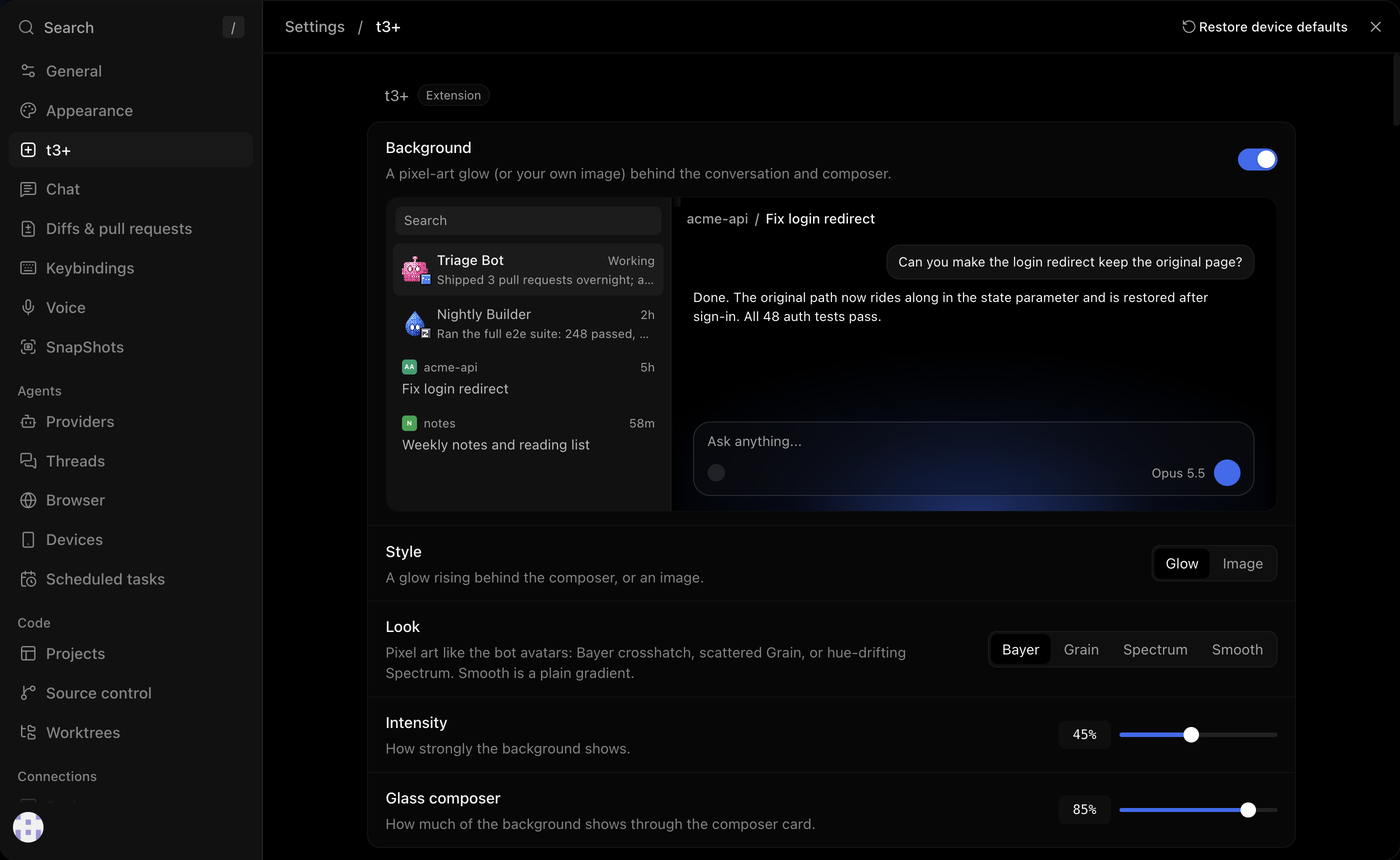
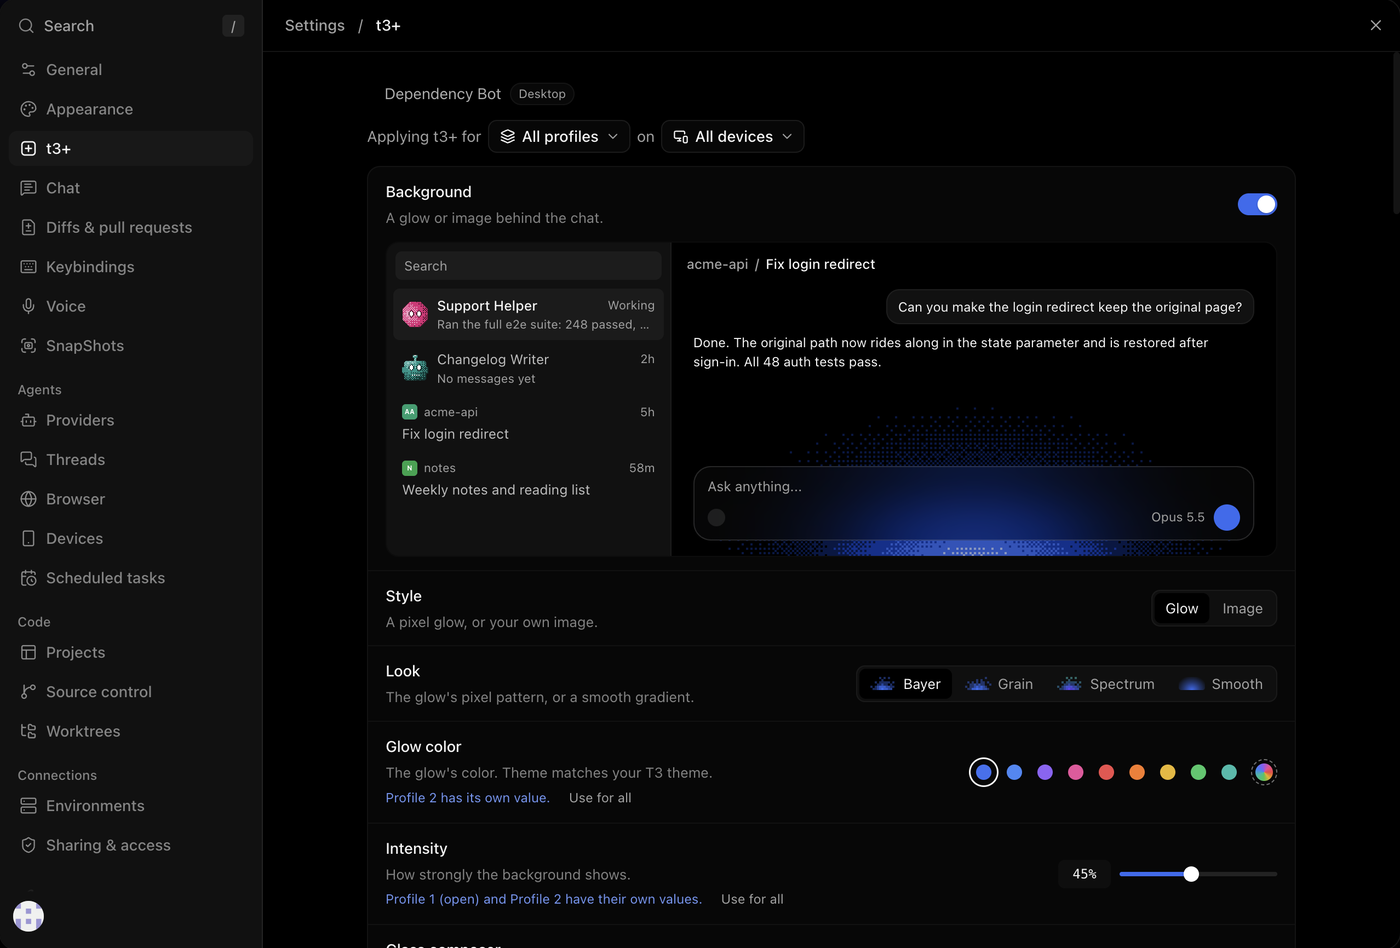
t3+ 0.23.1: README with Status view, profile swipe and Settings clips

diff --git a/README.md b/README.md
@@ -6,7 +6,7 @@
 
 <img src="media/hero.gif" alt="t3+ new-thread page: glow behind a glass composer, usage widgets, bots in the sidebar" width="100%">
 
-[Install](#install) · [Bots](#bots) · [Glow](#glow-and-glass) · [Usage](#usage-at-a-glance) · [Profiles](#profiles) · [Walkthrough](#walkthrough)
+[Install](#install) · [Bots](#bots) · [Profiles](#profiles) · [Status view](#status-view) · [Glow](#glow-and-glass) · [Usage](#usage-at-a-glance) · [Settings](#settings) · [Walkthrough](#walkthrough)
 
 </div>
 
@@ -35,15 +35,14 @@ You need macOS, the T3 Code desktop app and Node 22.2+.
 
 <table>
 <tr>
-<td width="300"><img src="media/bots.gif" alt="Bots in the sidebar: faces, latest messages and a subagent strip" width="300"></td>
+<td width="260"><img src="media/bots.gif" alt="Bots in the sidebar: animated faces, latest messages and a subagent strip" width="260"></td>
 <td>
 
 Every thread becomes a little pixel-art bot with a face, its name and its latest message.
 
 - **Moods**: eyes closed when idle, animated while the thread works.
-- **Status badges** (Settings → t3+, off to start): a small tile on each bot's face that shows what the thread is doing.
-- **Subagents**: small faces line up under a bot while it runs subagents, in the bot's own shape and color (or ones you pick in Settings → t3+ → Subagents); finished ones dim.
-- **Status colors** (Settings → t3+): in the sidebar's Status view every bot wears its status's color, orange when it needs you, red failed, amber working, green done and blue idle. Everywhere else bots keep their own colors, and balls, planets and fruit always do.
+- **Subagents**: small faces line up under a bot while it runs subagents, in the bot's own shape and color by default (pick others in Settings → t3+ → Subagents). Finished ones dim.
+- **Status badges** (off to start): a small tile on each face that shows what the thread is doing.
 - Pick a shape and color per bot in Settings, or let each one take its project's color.
 
 </td>
@@ -57,6 +56,40 @@ Five styles for bots you haven't customized (Settings → t3+ → Bot style):
 | <img src="media/style-classic.png" width="180" alt="Classic bots"> | <img src="media/style-sports.png" width="180" alt="Sports bots"> | <img src="media/style-space.png" width="180" alt="Space bots"> | <img src="media/style-fruit.png" width="180" alt="Fruit bots"> |
 
 And **Blobs**: soft blobs in the bot's color with two capsule eyes, always gently alive. They glance around, blink and breathe, and show the mood.
+
+## Profiles
+
+<table>
+<tr>
+<td width="260"><img src="media/profiles.gif" alt="Swiping between two profiles: the list slides and the sky changes color" width="260"></td>
+<td>
+
+Dots at the bottom of the sidebar, next to the profile's name. Each profile shows its own projects and keeps its own open thread.
+
+- **Swipe** sideways with two fingers over the sidebar and the lists slide with your fingers. Or click a dot, or press **Ctrl+Shift+1–9**.
+- Drag a project onto a dot, or right-click it → **Move to profile**, to move it.
+- Right-click a dot to rename it, delete it, or give it an icon and its own colors (dot, sky, glow and chat bubbles).
+
+</td>
+</tr>
+</table>
+
+## Status view
+
+<table>
+<tr>
+<td width="260"><img src="media/status.gif" alt="The Status view: threads grouped by status, with bots in status colors, sliding between profiles" width="260"></td>
+<td>
+
+The button at the right of the profile dots turns the sidebar into a triage list: the profile's threads grouped into **Needs you**, **Working**, **Done** and **Idle**, newest first.
+
+- It covers threads T3's own list hides, read from T3's database: approvals, questions, failed and rate-limited runs, goals and queued work.
+- **Status colors** (Settings → t3+, off to start): in this view each bot wears its status's color. Orange needs you, red failed, yellow working, green done, blue idle. Back in the normal list, bots get their own colors again. Balls, planets and fruit always keep theirs.
+- Swipe between profiles here too; the list slides just like the normal one.
+
+</td>
+</tr>
+</table>
 
 ## Glow and glass
 
@@ -93,32 +126,20 @@ Everything is read on your Mac: T3's own database, T3's local API and your Claud
 </tr>
 </table>
 
-## Profiles
-
-<table>
-<tr>
-<td width="260"><img src="media/profiles.gif" alt="Switching between two profiles" width="260"></td>
-<td>
-
-Dots at the bottom of the sidebar, like Dia's profiles. Each profile shows its own projects.
-
-- Click a dot, swipe sideways with two fingers, or press **Ctrl+Shift+1–9**.
-- Drag a project onto a dot, or right-click it → **Move to profile**, to move it.
-- Right-click a dot to rename or delete it.
-- The button at the right of the dots shows the **Status view**: the profile's threads grouped by what they need (Needs you, Working, Done, Idle).
-- Most t3+ settings can differ per profile or per machine: pick one at the top of Settings → t3+ ("Applying t3+ for … on …"). Turning profiles on or off and screenshot mode are the same everywhere, as are each bot's own look and backups.
-
-</td>
-</tr>
-</table>
-
 ## Screenshot mode
 
-Turn it on in Settings → t3+ to swap thread titles, projects, branches and messages for believable stand-ins, so you can share your screen without personal details. It's off by default. Every image on this page was taken with it on, and the usage numbers are sample data.
+Turn it on in Settings → t3+ to swap thread titles, projects, branches and messages for believable stand-ins, so you can share your screen without personal details. It's off by default. Every image on this page was taken with it on, and the usage numbers are sample data. Terminals, diffs and files stay real.
 
 ## Settings
 
-<img src="media/settings.png" alt="The t3+ section in T3 Code's settings" width="100%">
+Everything lives in T3 Code under **Settings → t3+**, with a live preview where it helps.
+
+<img src="media/settings.png" alt="The t3+ section in T3 Code's settings: the Applying bar and the background preview" width="100%">
+
+- **Per profile and per Mac**: the bar at the top ("Applying t3+ for All profiles on All devices") picks what you're changing. A setting that differs somewhere says so, with **Use for all** to make it the same again. Turning profiles on or off and screenshot mode are the same everywhere, as are each bot's own look and backups.
+- **Changelog**: at the bottom, click it to see what's new in each version, right in Settings.
+
+<img src="media/settings-features.png" alt="t3+ features in Settings: bot style, status colors with a preview, status badges, subagents" width="100%">
 
 ## Walkthrough
 
